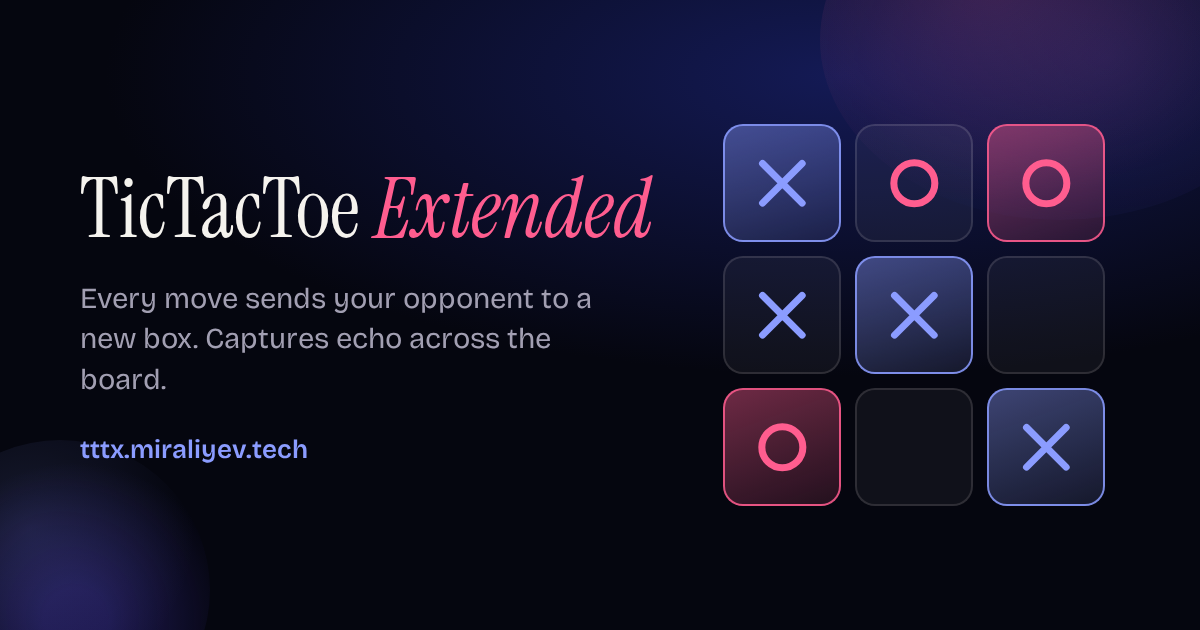
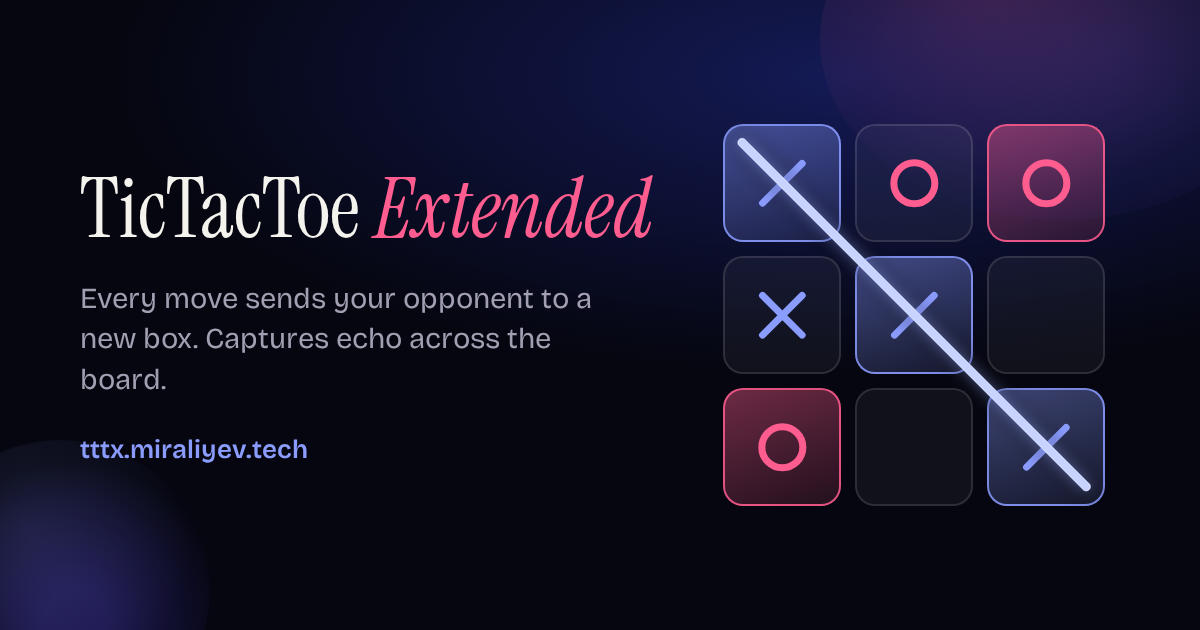
Lobby: Only you / You + N count, same-device dedupe, no-number names, invite toast fixes, share card winning line, og cover with line

diff --git a/online.js b/online.js
@@ -8,6 +8,19 @@ const T=()=>window.__tttx;
 const ADJ=['Swift','Calm','Bright','Lucky','Quiet','Merry','Bold','Clever','Gentle','Jolly','Keen','Mighty','Nimble','Proud','Rapid','Sunny','Witty','Zesty','Cosy','Eager'];
 const ANI=['Fox','Owl','Bear','Wolf','Lynx','Hawk','Deer','Frog','Crow','Seal','Wren','Elk','Jay','Mole','Hare','Newt','Ibex','Toad','Vole','Puma'];
 const nick=()=>ADJ[Math.random()*ADJ.length|0]+ANI[Math.random()*ANI.length|0]+(10+Math.random()*90|0);
+const pn=n=>{const m=/^([A-Z][a-z]+)([A-Z][a-z]+)\d{2}$/.exec(n||'');return m?m[1]+' '+m[2]:(n||'')};
+function devId(){var k='tttx-did',id=null;try{id=localStorage.getItem(k)}catch(e){}
+  var m=/(?:^|; )tttx_did=([^;]+)/.exec(document.cookie);if(m)id=m[1];
+  if(!id)id=Math.random().toString(36).slice(2,8)+Math.random().toString(36).slice(2,8);
+  try{localStorage.setItem(k,id)}catch(e){}
+  if(/(^|\.)miraliyev\.tech$/.test(location.hostname))document.cookie='tttx_did='+id+';domain=.miraliyev.tech;path=/;max-age=63072000;SameSite=Lax;Secure';
+  return id}
+function devFp(){var n=navigator,s=screen,g='';try{var c=document.createElement('canvas').getContext('webgl');var e=c&&c.getExtension('WEBGL_debug_renderer_info');g=e?c.getParameter(e.UNMASKED_RENDERER_WEBGL):''}catch(e){}
+  var str=[n.userAgent,n.platform,n.language,(n.languages||[]).join(),s.width,s.height,s.colorDepth,devicePixelRatio,n.hardwareConcurrency,n.deviceMemory,n.maxTouchPoints,Intl.DateTimeFormat().resolvedOptions().timeZone,g].join('|');
+  var h=5381;for(var i=0;i<str.length;i++)h=((h<<5)+h+str.charCodeAt(i))|0;return (h>>>0).toString(36)}
+var MY_DK=devId(),MY_FP=devFp();
+function sameDev(p){return p&&((p.dk&&p.dk===MY_DK)||(p.fp&&p.fp===MY_FP))}
+
 const rid=()=>{const a='abcdefghjkmnpqrstuvwxyz23456789';let s='';for(let i=0;i<6;i++)s+=a[Math.random()*a.length|0];return s};
 
 let tOff=0;
@@ -36,14 +49,14 @@ function shareLink(){if(roomLink&&navigator.share)navigator.share({title:'TicTac
 const popOpen=e=>!!(e&&e.matches&&e.matches(':popover-open'));
 function toast(msg,ms=2600){const t=$('#toast');t.textContent=msg;if(!popOpen(t))t.showPopover();t.className='show';clearTimeout(t._h);t._h=setTimeout(()=>{t.className='';if(popOpen(t))t.hidePopover()},ms)}
 const wbShow=e=>{if(e)e.classList.add('on')};const wbHide=e=>{if(e)e.classList.remove('on')};
-function toastAsk(fromNick,accept,decline){
+function toastAsk(fromNick,accept,decline,life){
   const t=$('#toast');t.innerHTML='';
-  const s=document.createElement('span');s.textContent=fromNick+' invites you to play';
+  const s=document.createElement('span');s.textContent=pn(fromNick)+' invites you to play';
   const a=document.createElement('button');a.textContent='Accept';a.className='ok';
   const d=document.createElement('button');d.textContent='Decline';
-  a.onclick=()=>{t.className='';if(popOpen(t))t.hidePopover();accept()};d.onclick=()=>{t.className='';if(popOpen(t))t.hidePopover();decline()};
-  t.append(s,a,d);if(!popOpen(t))t.showPopover();t.className='show ask';
-  clearTimeout(t._h);t._h=setTimeout(()=>{if(t.className){t.className='';if(popOpen(t))t.hidePopover();decline(true)}},60000);
+  a.onclick=()=>{t._ans=1;t.className='';if(popOpen(t))t.hidePopover();accept()};d.onclick=()=>{t._ans=1;t.className='';if(popOpen(t))t.hidePopover();decline()};
+  t.append(s,a,d);if(!popOpen(t))t.showPopover();t.className='show ask';t._ans=0;
+  clearTimeout(t._h);t._h=setTimeout(()=>{if(t.className){t._ans=1;t.className='';if(popOpen(t))t.hidePopover();decline(true)}},life||60000);
 }
 
 // ---------- presence ----------
@@ -53,14 +66,14 @@ async function presenceOn(){
   onValue(ref(db,'.info/serverTimeOffset'),s=>{tOff=s.val()||0});
   const p=ref(db,'presence/'+me.uid);
   const hide=localStorage.getItem('tttx-hide')==='1';
-  const beat=()=>set(p,{nick:myNick,ts:serverTimestamp(),hide,room:roomId||null});
+  const beat=()=>set(p,{nick:myNick,ts:serverTimestamp(),hide,room:roomId||null,dk:MY_DK,fp:MY_FP});
   beat();onDisconnect(p).remove();
   clearInterval(hb);hb=setInterval(beat,25000);
   document.addEventListener('visibilitychange',()=>{if(!document.hidden)beat()});
   if(plistOn)return;plistOn=true;
   onValue(ref(db,'presence'),snap=>{
     const v=snap.val()||{},now=nowSrv();
-    const list=Object.entries(v).filter(([u,p])=>u!==me.uid&&p&&!p.hide&&p.ts&&now-p.ts<90000);
+    const list=Object.entries(v).filter(([u,p])=>u!==me.uid&&p&&!sameDev(p)&&!p.hide&&p.ts&&now-p.ts<90000);
     $('#pcount').textContent=list.length;
     const ob=$('#online');if(ob)ob.innerHTML=fmtOnlinePill(list.length);
     const el=$('#plist');el.innerHTML='';
@@ -68,7 +81,7 @@ async function presenceOn(){
     for(const[u,p]of list){
       const row=document.createElement('div');row.className='pitem';
       const dot=document.createElement('span');dot.className='dot'+(p.room?' busy':'');
-      const n=document.createElement('span');n.className='nick';n.textContent=p.nick;
+      const n=document.createElement('span');n.className='nick';n.textContent=pn(p.nick)+((list.filter(([,q])=>pn(q.nick)===pn(p.nick)).length>1&&pn(p.nick)!==p.nick)?' #'+p.nick.slice(-2):'');
       const st=document.createElement('span');st.className='st';st.textContent=(p.room?'· in a game':'· free')+(p.site?' · on '+p.site:'');
       const b=document.createElement('button');
       if(p.room){b.textContent='In a game';b.disabled=true}
@@ -168,7 +181,7 @@ function handleOppGone(v,id){
 }
 function onOppGoneState(gone,id,opp){
   if(roomId!==id)return;
-  const name=(opp&&opp.nick)||'Opponent';
+  const name=pn((opp&&opp.nick)||'Opponent');
   if(gone&&!oppGone){
     oppGone=true;
     $('#onick').textContent='vs '+name+' - reconnecting…';
@@ -201,7 +214,7 @@ function enterRoom(id,asSeat,spec,keepLobby){
     if(!v){
       if(room){
         const hadOpp=room.players&&room.players.X&&room.players.O;
-        const oppNick=hadOpp?((room.players[seat==='X'?'O':'X']||{}).nick||'Opponent'):'Opponent';
+        const oppNick=hadOpp?(pn((room.players[seat==='X'?'O':'X']||{}).nick||'Opponent')):'Opponent';
         cleanupRoom();
         toast(hadOpp?oppNick+' left - back to local play':'Room closed');
       }
@@ -215,7 +228,7 @@ function enterRoom(id,asSeat,spec,keepLobby){
     if(!spec&&v.status==='waiting'){wb.querySelector('span').textContent='Room ready - send this link, then stay on this page';const wcx=$('#waitcancel');if(wcx)wcx.style.display='none'}
     if(!spec&&v.status==='playing'){const lb=$('#lobby');if(lb.open)lb.close()}
     $('#leave').textContent=spec?'Leave':(v.host===me.uid?'Close room':'Leave game');
-    if(!oppGone)$('#onick').textContent=spectate?'Spectating':(opp&&opp.nick?('vs '+opp.nick):'Waiting for opponent…');
+    if(!oppGone)$('#onick').textContent=spectate?'Spectating':(opp&&opp.nick?('vs '+pn(opp.nick)):'Waiting for opponent…');
     T().setOnlineRule(v.cfg&&v.cfg.rule||null);
     if(v.score){const s=T().score;s.X=v.score.X||0;s.O=v.score.O||0;s.D=v.score.D||0}
     handleOppGone(v,id);
@@ -257,7 +270,7 @@ function leaveRoom(){
   if(iPlay)remove(ref(db,'rooms/'+id)).catch(()=>{});
 }
 Online.leave=leaveRoom;
-Online.names=function(){if(!room)return null;const px=room.players&&room.players.X,po=room.players&&room.players.O;return{X:px&&px.nick||'\u2026',O:po&&po.nick||'\u2026'}};
+Online.names=function(){if(!room)return null;const px=room.players&&room.players.X,po=room.players&&room.players.O;return{X:px&&pn(px.nick)||'\u2026',O:po&&pn(po.nick)||'\u2026'}};
 Online.waiting=function(){if(!roomId)return false;return!room||room.status==='waiting'};
 
 // move hook: called inside move() after play(), before persist/render
@@ -300,7 +313,7 @@ Online.statusText=function(){
   if(room.status==='waiting')return{chip:'Waiting…',hint:'Share the invite link'};
   if(oppGone)return{chip:'Reconnecting…',hint:'Opponent lost connection'};
   if(g.winner)return null; // default over text
-  return{chip:g.turn===seat?'Your move':(room.players[otherSeat()]||{}).nick+' to move',hint:g.turn===seat?'':'Wait for your turn'};
+  return{chip:g.turn===seat?'Your move':pn((room.players[otherSeat()]||{}).nick)+' to move',hint:g.turn===seat?'':'Wait for your turn'};
 };
 function otherSeat(){return seat==='X'?'O':'X'}
 Online.requestRematch=function(){
@@ -327,6 +340,7 @@ function wireReconnect(){
 
 // ---------- invites ----------
 async function sendInvite(toUid,toNick,btn){
+  toNick=pn(toNick);
   const rate=(await get(ref(db,'rate/'+me.uid))).val()||{};
   if(rate.lastInvite&&Date.now()-rate.lastInvite<10000){toast('One invite at a time - wait a few seconds');return}
   const id=await createRoom();if(!id)return;
@@ -375,6 +389,9 @@ function invitesOn(){
       const ir=ref(db,'invites/'+me.uid+'/'+k);
       if(roomId){update(ir,{status:'busy'}).catch(()=>{});continue}
       if(iv._shown)continue;iv._shown=true;
+      const lim=iv.fromSite?28000:60000;if(now-iv.ts>lim)continue;
+      const tt=$('#toast');
+      const offW=onValue(ir,sn=>{const x=sn.val();if(x&&x.status==='pending')return;offW();if(tt.className&&tt.classList.contains('ask')&&!tt._ans){tt._ans=1;clearTimeout(tt._h);tt.className='';if(popOpen(tt))tt.hidePopover();toast(pn(iv.fromNick||'Someone')+' cancelled the invite')}});
       toastAsk(iv.fromNick||'Someone',async()=>{
         const ok=await claimSeatO(iv.roomId);
         if(!ok){
@@ -393,7 +410,7 @@ function invitesOn(){
             if(rv&&rv.status==='waiting'&&!(rv.players&&rv.players.O))update(ref(db,'rooms/'+iv.roomId),{'players/O':{uid:me.uid,nick:myNick,declined:true}}).catch(()=>{});
           }).catch(()=>{});
         }
-      });
+      },lim-(now-iv.ts));
       break; // one toast at a time
     }
   });
@@ -467,7 +484,8 @@ async function boot(){
     const rv=(await get(rr)).val();
     if(!rv){toast('That room is closed');return}
     if(q.get('as')==='host'&&rv.players&&rv.players.X&&rv.players.X.pending&&rv.players.X.uid!==me.uid){
-            await update(rr,{'players/X':{uid:me.uid,nick:myNick},host:me.uid}).catch(()=>{});
+      // inviter from a site widget: the widget reserved seat X (its login differs from this page's), claim it now
+      await update(rr,{'players/X':{uid:me.uid,nick:myNick},host:me.uid}).catch(()=>{});
       enterRoom(join,'X',false);
     }
     else if(rv.players&&rv.players.X&&rv.players.X.uid===me.uid)enterRoom(join,'X',false);

diff --git a/index.html b/index.html
@@ -10,13 +10,13 @@
 <meta property="og:description" content="Every move sends your opponent to a new box. Captures echo across the board.">
 <meta property="og:type" content="website">
 <meta property="og:url" content="https://tttx.miraliyev.tech/">
-<meta property="og:image" content="https://tttx.miraliyev.tech/og-cover.png">
+<meta property="og:image" content="https://tttx.miraliyev.tech/og-cover.png?v=2">
 <meta property="og:image:width" content="1200">
 <meta property="og:image:height" content="630">
 <meta name="twitter:card" content="summary_large_image">
 <meta name="twitter:title" content="TicTacToe Extended">
 <meta name="twitter:description" content="Every move sends your opponent to a new box. Captures echo across the board.">
-<meta name="twitter:image" content="https://tttx.miraliyev.tech/og-cover.png">
+<meta name="twitter:image" content="https://tttx.miraliyev.tech/og-cover.png?v=2">
 <meta property="og:site_name" content="miraliyev.tech">
 <meta property="og:image:type" content="image/png">
 <meta name="twitter:image:alt" content="TicTacToe Extended - glowing X and O marks on a dark starry board">
@@ -988,6 +988,14 @@ async function makeCardBlob(){
       if(ow==='D'){c.font='800 84px '+SAN;c.fillStyle=DC;c.textAlign='center';c.textBaseline='middle';c.fillText('\u2013',bx+S/2,by+S/2);c.textAlign='left';c.textBaseline='alphabetic'}
       else dMark(ow,bx+S/2,by+S/2,S*0.34,S*0.062);
     }
+  }
+  /* winning line across the three winning boxes, same look as the live board (round cap, pale colour, glow) */
+  if(winLine.length===3){
+    const ctr=b=>[x0+(b%3)*(S+GAP)+S/2,y0+Math.floor(b/3)*(S+GAP)+S/2];
+    const a0=ctr(winLine[0]),z0=ctr(winLine[2]),ddx=z0[0]-a0[0],ddy=z0[1]-a0[1],ln=Math.hypot(ddx,ddy)||1,ex=(ddx&&ddy)?S*0.6:S*0.43;
+    const wc=d.w==='X'?'#c9d3ff':'#ffc7d8',gc=d.w==='X'?'rgba(139,156,255,.9)':'rgba(255,93,143,.9)';
+    c.save();c.lineCap='round';c.lineWidth=17;c.strokeStyle=wc;c.shadowColor=gc;c.shadowBlur=26;
+    c.beginPath();c.moveTo(a0[0]-ddx/ln*ex,a0[1]-ddy/ln*ex);c.lineTo(z0[0]+ddx/ln*ex,z0[1]+ddy/ln*ex);c.stroke();c.restore();
   }
   const yb=y0+3*S+2*GAP;
   row(yb+68,[{t:'Boxes captured   ',f:'400 34px '+SAN,c:DIM},{m:'X',span:26},{t:'\u2002'+d.bx,f:'700 38px '+SAN,c:XC},{t:'   \u00b7   ',f:'400 34px '+SAN,c:DIM},{m:'O',span:26},{t:'\u2002'+d.bo,f:'700 38px '+SAN,c:OC}]);
